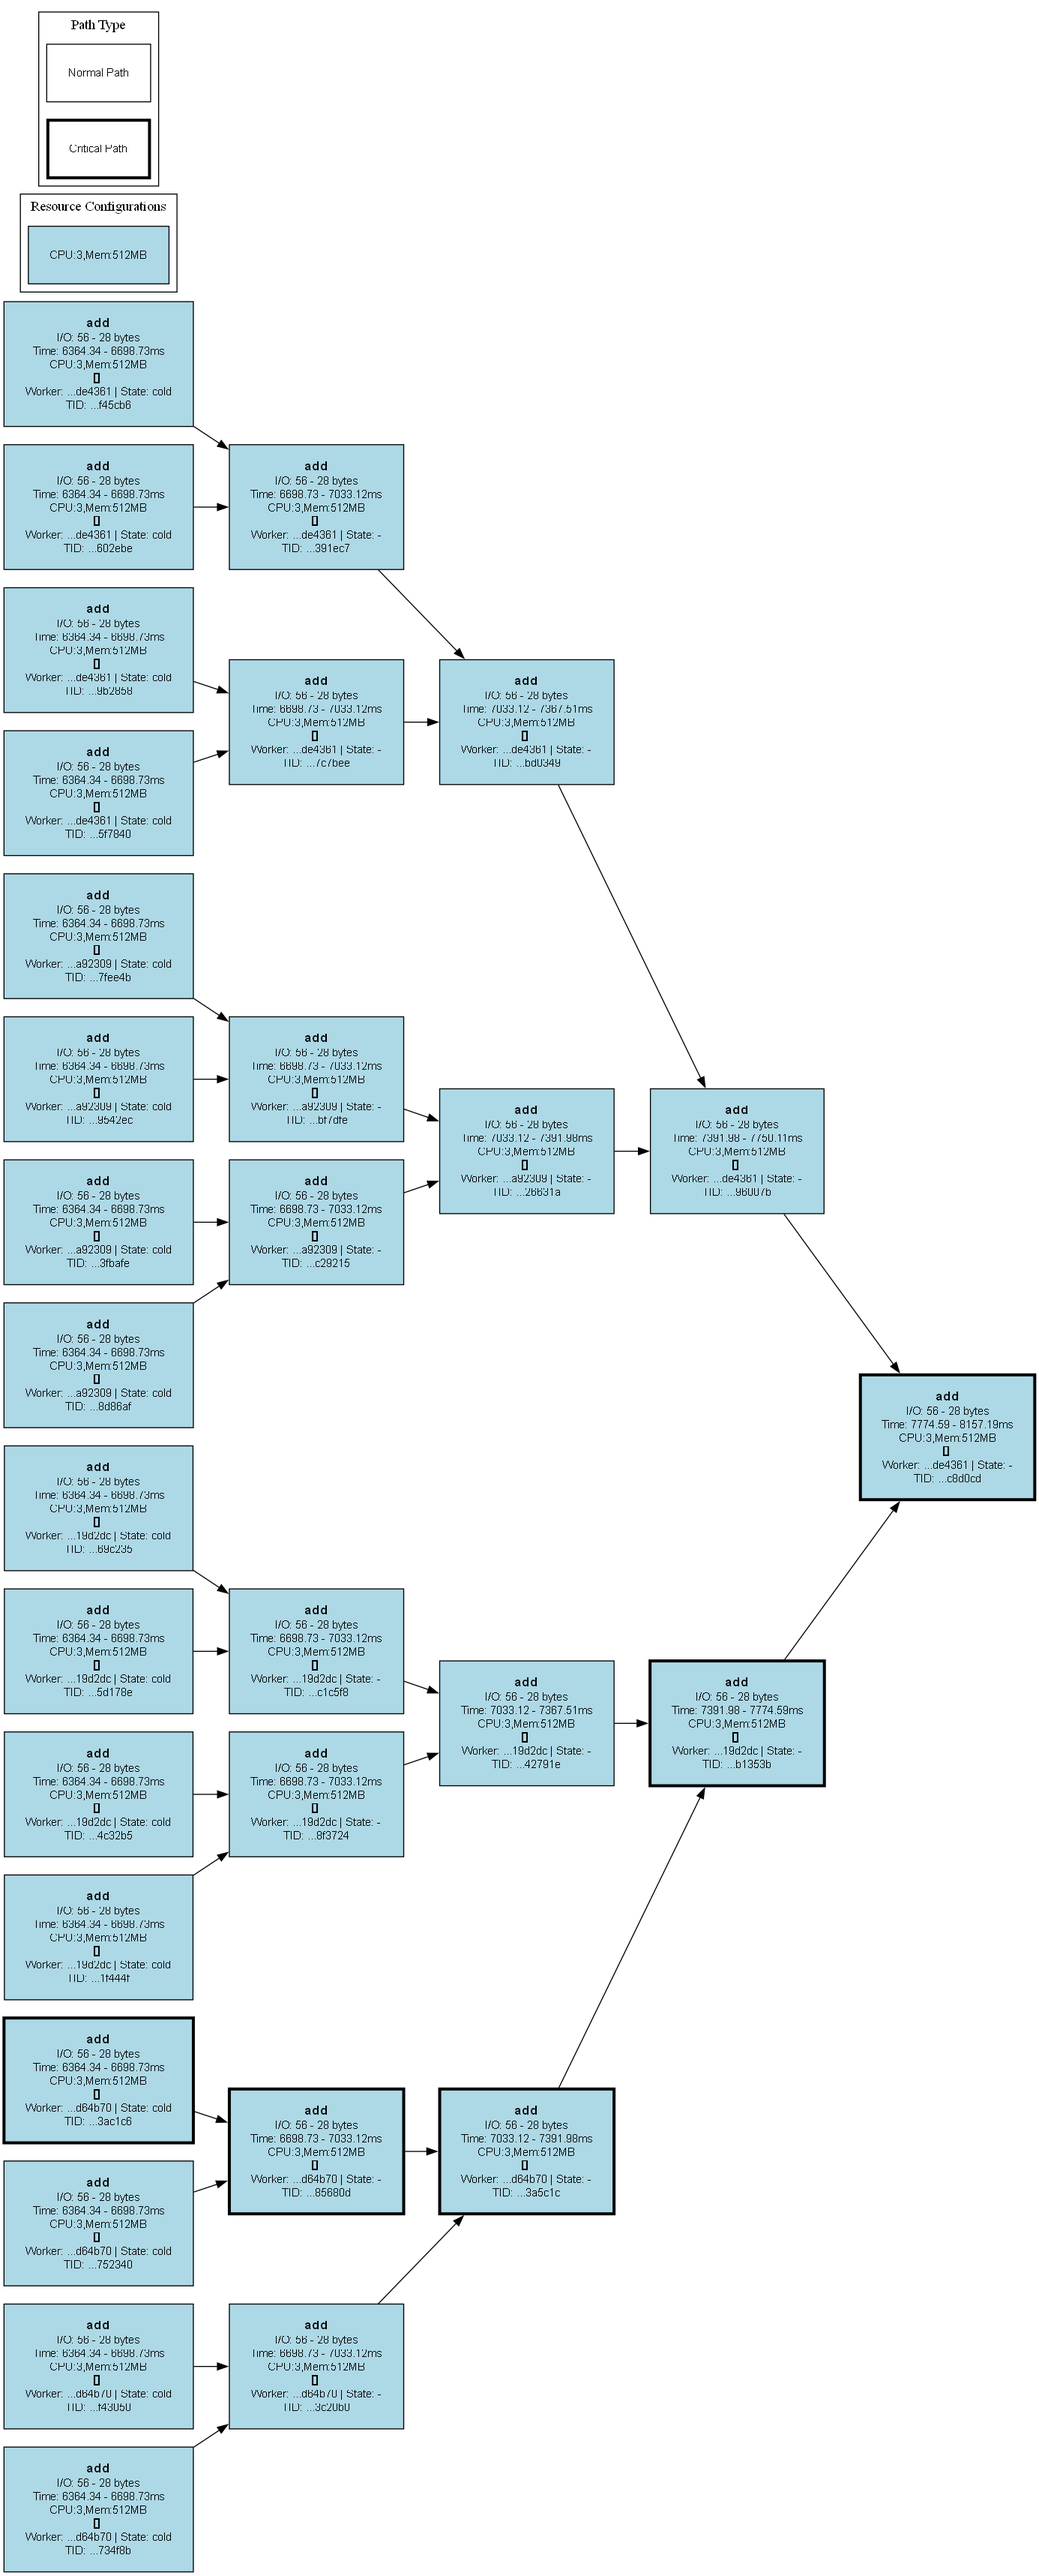
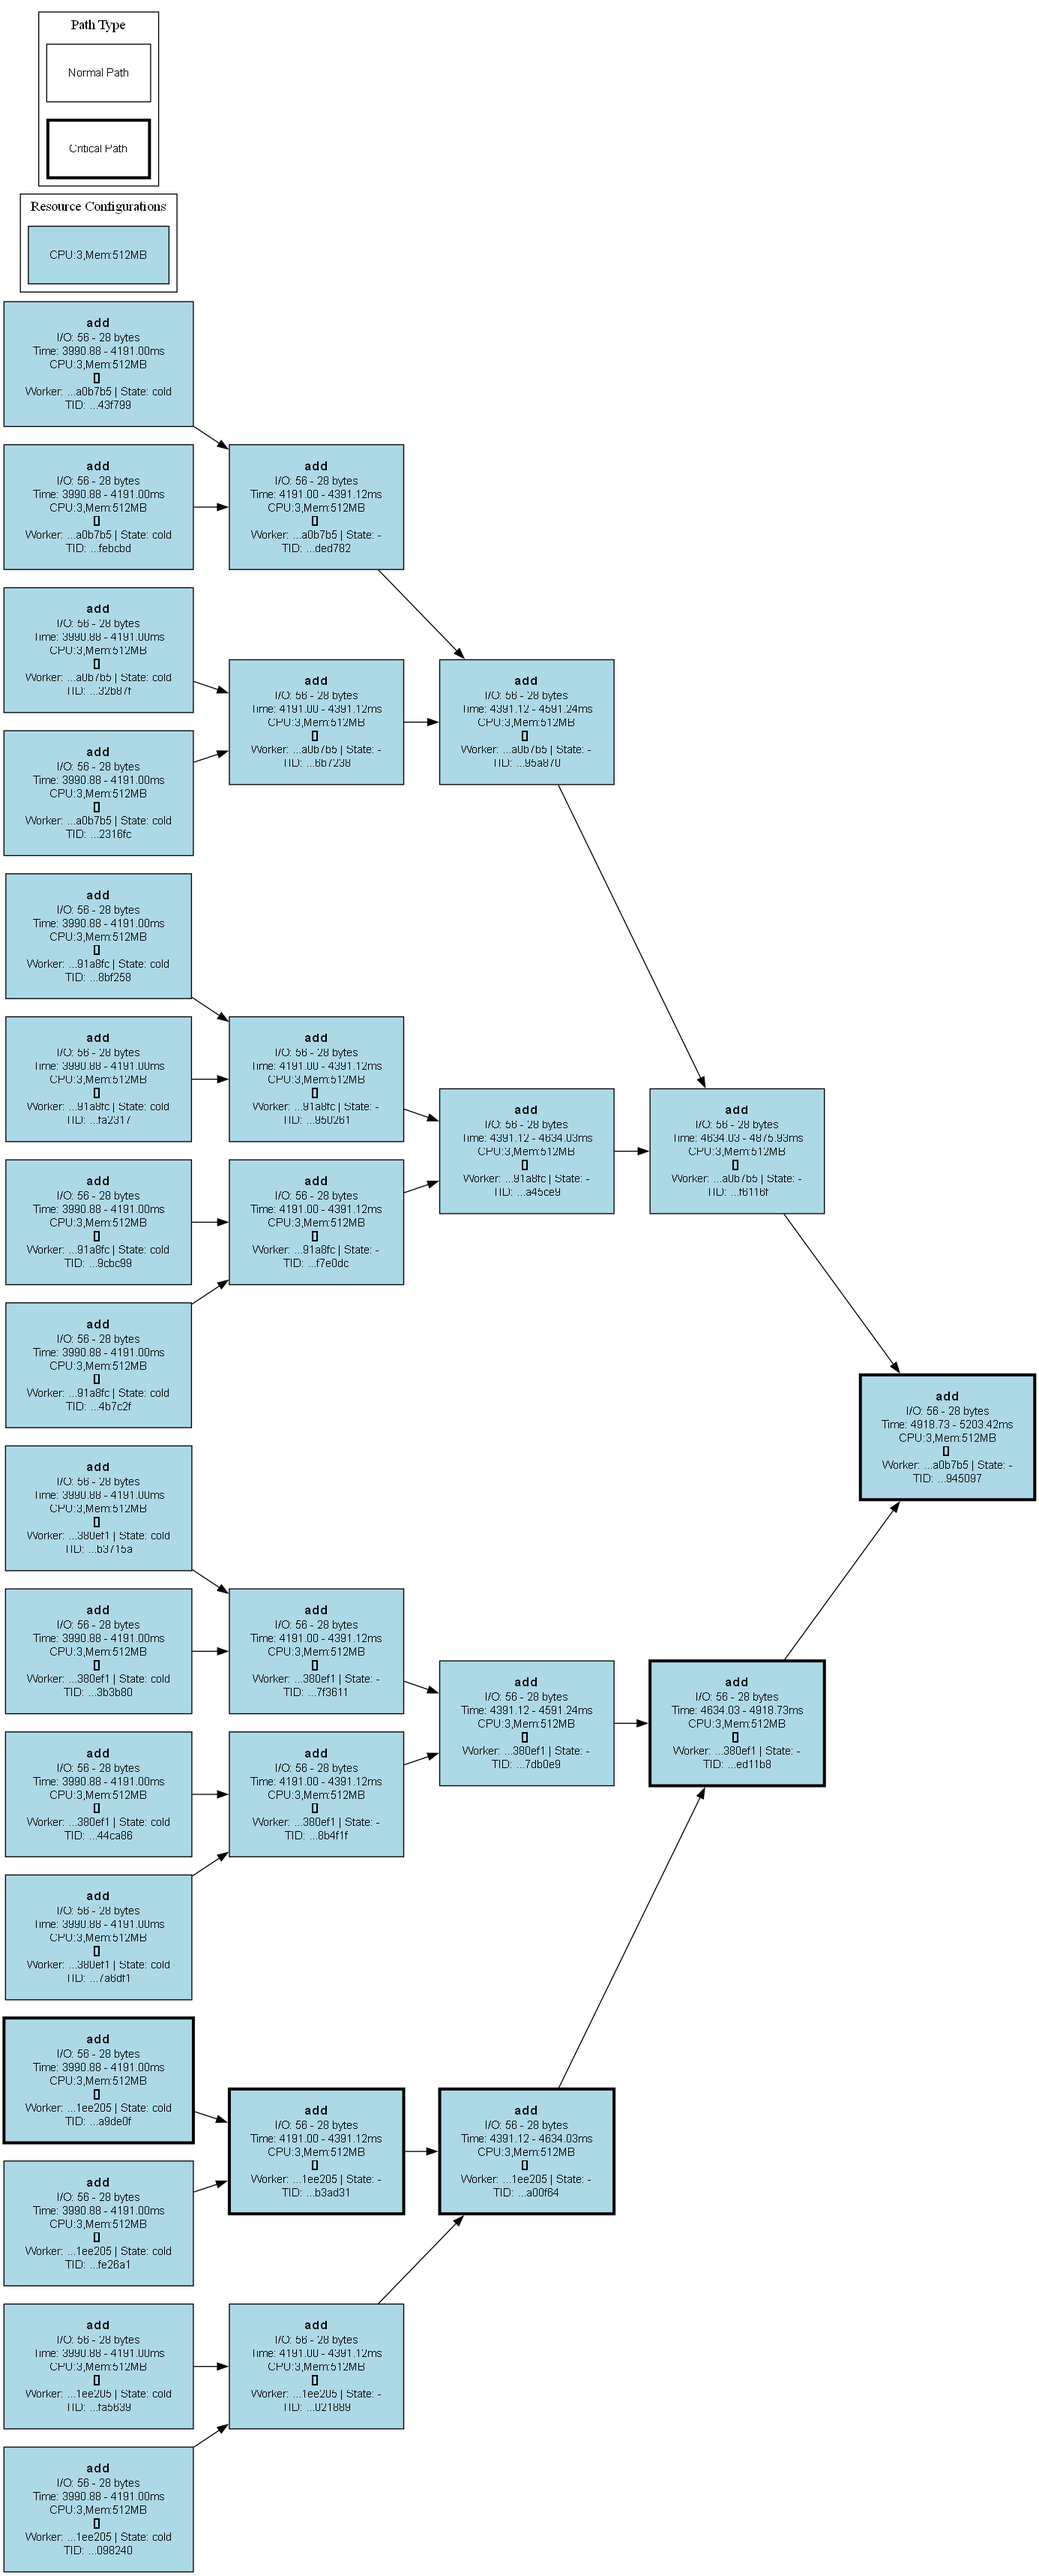
attempt at improving predictions by using adaptive scaling exponent for predicting output size, execution time and data trasnfer times

diff --git a/src/planning/predictions/predictions_provider.py b/src/planning/predictions/predictions_provider.py
@@ -144,7 +144,9 @@ class PredictionsProvider:
         if sla == "average": ratio = np.average(selected_ratios)
         else: ratio = np.percentile(selected_ratios, sla.value)
 
-        res = math.ceil(input_size * ratio)
+        adaptive_exponent = self._adaptive_scaling_exponent(input_size, [input_size for _, input_size in function_io_ratios], sla)
+        logger.info(f"Output size prediction | Adaptive Exponent: {adaptive_exponent}")
+        res = math.ceil(input_size ** adaptive_exponent * ratio)
         
         self._cached_prediction_output_sizes[prediction_key] = res
         return res
@@ -155,8 +157,7 @@ class PredictionsProvider:
         data_size_bytes: int,
         resource_config: TaskWorkerResourceConfiguration,
         sla: SLA,
-        allow_cached: bool = True,
-        scaling_exponent: float = 0.85  # sublinear, because 2x data size doesn't mean 2x time
+        allow_cached: bool = True
     ) -> float:
         """Predict data transfer time for upload/download given data size and resources.
         
@@ -174,22 +175,22 @@ class PredictionsProvider:
             raise ValueError("SLA must be 'average' or between 0 and 100")
         if data_size_bytes == 0: return 0
         
-        cached_data = self.cached_upload_speeds if type == 'upload' else self.cached_download_speeds
-        if len(cached_data) == 0: return 0
+        all_samples = self.cached_upload_speeds if type == 'upload' else self.cached_download_speeds
+        if len(all_samples) == 0: return 0
         
         # Include scaling exponent in cache key
-        prediction_key = f"{type}-{data_size_bytes}-{resource_config}-{sla}-{scaling_exponent}"
+        prediction_key = f"{type}-{data_size_bytes}-{resource_config}-{sla}"
         if allow_cached and prediction_key in self._cached_prediction_data_transfer_times: 
             return self._cached_prediction_data_transfer_times[prediction_key]
         
         # Filter samples by exact resource match
-        matching_samples = [
-            (speed, total_bytes) for speed, total_bytes, cpus, memory_mb in cached_data
+        _matching_samples = [
+            (speed, total_bytes) for speed, total_bytes, cpus, memory_mb in all_samples
             if cpus == resource_config.cpus and memory_mb == resource_config.memory_mb
         ]
 
-        if len(matching_samples) >= self.MIN_SAMPLES_OF_SAME_RESOURCE_CONFIGURATION:
-            matching_samples = self._select_related_samples(data_size_bytes, matching_samples, sla)
+        if len(_matching_samples) >= self.MIN_SAMPLES_OF_SAME_RESOURCE_CONFIGURATION:
+            matching_samples = self._select_related_samples(data_size_bytes, _matching_samples, sla)
             if sla == "average":
                 speed_bytes_per_ms = np.average(matching_samples)
             else:
@@ -198,15 +199,16 @@ class PredictionsProvider:
             if speed_bytes_per_ms <= 0:
                 raise ValueError(f"No data available for {type} or invalid speed data")
             
-            # Apply non-linear scaling with protection against complex numbers
-            base_time = (data_size_bytes ** scaling_exponent) / speed_bytes_per_ms
+            adaptive_exponent = self._adaptive_scaling_exponent(data_size_bytes, [data_size for _, data_size in _matching_samples], sla)
+            logger.info(f"Data trans | Matching samples | Adaptive Exponent: {adaptive_exponent}")
+            base_time = (data_size_bytes ** adaptive_exponent) / speed_bytes_per_ms
             res = base_time
         else:
-            baseline_normalized_samples = [
+            _baseline_normalized_samples = [
                 (speed * (BASELINE_MEMORY_MB / memory_mb) ** 0.2, total_bytes)
-                for speed, total_bytes, cpus, memory_mb in cached_data
+                for speed, total_bytes, cpus, memory_mb in all_samples
             ]
-            baseline_normalized_samples = self._select_related_samples(data_size_bytes, baseline_normalized_samples, sla)
+            baseline_normalized_samples = self._select_related_samples(data_size_bytes, _baseline_normalized_samples, sla)
             
             if sla == "average":
                 baseline_speed_bytes_per_ms = np.average(baseline_normalized_samples)
@@ -216,12 +218,13 @@ class PredictionsProvider:
             if baseline_speed_bytes_per_ms <= 0:
                 raise ValueError(f"No data available for {type} or invalid baseline speed data")
             
-            # Scale from baseline to target and apply non-linear scaling with protection
+            adaptive_exponent = self._adaptive_scaling_exponent(data_size_bytes, [data_size for _, data_size in _baseline_normalized_samples], sla)
+            logger.info(f"Data trans | Normalized samples | Adaptive Exponent: {adaptive_exponent}")
             scaled_speed_bytes_per_ms = baseline_speed_bytes_per_ms * (resource_config.memory_mb / BASELINE_MEMORY_MB) ** 0.2
-            res = (data_size_bytes ** scaling_exponent) / scaled_speed_bytes_per_ms
+            res = (data_size_bytes ** adaptive_exponent) / scaled_speed_bytes_per_ms
 
-        self._cached_prediction_data_transfer_times[prediction_key] = res
-        return res
+        self._cached_prediction_data_transfer_times[prediction_key] = float(res)
+        return float(res)
 
     def predict_worker_startup_time(self, resource_config: TaskWorkerResourceConfiguration, state: Literal['cold', 'warm'], sla: SLA, allow_cached: bool = True) -> float:
         """Predict worker startup time given resource configuration and state."""
@@ -270,8 +273,7 @@ class PredictionsProvider:
         input_size: int,
         resource_config: TaskWorkerResourceConfiguration,
         sla: SLA,
-        allow_cached: bool = True,
-        input_scaling_exponent: float = 0.9
+        allow_cached: bool = True
     ) -> float:
         """Predict execution time for a function given input size and resources.
         
@@ -294,33 +296,31 @@ class PredictionsProvider:
             return 0
         
         # Filter samples by exact resource match
-        matching_samples = [
-            (time_per_byte, cpus, memory_mb, total_input_size_bytes) for time_per_byte, cpus, memory_mb, total_input_size_bytes in all_samples
+        _matching_samples = [
+            (time_per_byte, total_input_size_bytes) for time_per_byte, cpus, memory_mb, total_input_size_bytes in all_samples
             if cpus == resource_config.cpus and memory_mb == resource_config.memory_mb
         ]
 
         # logger.info(f"Found {len(matching_samples)} exact resource matches for function {function_name} | nr samples: {len(all_samples)}")
 
-        if len(matching_samples) >= self.MIN_SAMPLES_OF_SAME_RESOURCE_CONFIGURATION:
+        if len(_matching_samples) >= self.MIN_SAMPLES_OF_SAME_RESOURCE_CONFIGURATION:
             # Get the full samples (with input sizes) for the matching resource config
-            full_matching_samples = [
-                (time_per_byte, total_input_size) for time_per_byte, cpus, memory_mb, total_input_size in matching_samples
-                if cpus == resource_config.cpus and memory_mb == resource_config.memory_mb
-            ]
             
             # Select samples based on input size similarity
-            selected_times = self._select_related_samples(input_size, full_matching_samples, sla)
+            matching_samples = self._select_related_samples(input_size, _matching_samples, sla)
             
             # Calculate prediction using the selected samples
             if sla == "average": 
-                ms_per_byte = np.average(selected_times)
+                ms_per_byte = np.average(matching_samples)
             else: 
-                ms_per_byte = np.percentile(selected_times, sla.value)
+                ms_per_byte = np.percentile(matching_samples, sla.value)
             
             if ms_per_byte <= 0: 
                 raise ValueError(f"No valid data available for function {function_name}")
                 
-            res = ms_per_byte * (input_size ** input_scaling_exponent)
+            adaptive_exponent = self._adaptive_scaling_exponent(input_size, [input_size for _,  input_size in _matching_samples], sla)
+            logger.info(f"Exec time | Matching samples | Adaptive Exponent: {adaptive_exponent}")
+            res = ms_per_byte * (input_size ** adaptive_exponent)
         else:
             # Insufficient exact matches - use memory scaling model with baseline normalization
             # Normalize samples to baseline memory configuration and select by input size
@@ -338,15 +338,39 @@ class PredictionsProvider:
                 baseline_ms_per_byte = np.percentile(baseline_normalized_samples, sla.value)
             if baseline_ms_per_byte <= 0:  
                 raise ValueError(f"No data available for function {function_name}")
-            res = baseline_ms_per_byte * (input_size ** input_scaling_exponent) * (BASELINE_MEMORY_MB / resource_config.memory_mb) ** 0.2
+            
+            adaptive_exponent = self._adaptive_scaling_exponent(input_size, [input_size for _,  input_size in samples_w_normalized_time_per_byte], sla)
+            logger.info(f"Exec time | Normalized Samples | Adaptive Exponent: {adaptive_exponent}")
+            logger.info
+            res = baseline_ms_per_byte * (input_size ** adaptive_exponent) * (BASELINE_MEMORY_MB / resource_config.memory_mb) ** 0.2
         
         self._cached_prediction_execution_times[prediction_key] = res # type: ignore
         return res # type: ignore
 
+    def _adaptive_scaling_exponent(self, value_for_which_to_predict, samples: list[int | float], sla: SLA, k_base=0.8, alpha=0.5):
+        """
+        Compute adaptive scaling exponent for input size prediction.
+
+        Args:
+            value_for_which_to_predict: value to predict for
+            samples: list of sample values used for prediction
+            k_base: nominal power-law exponent
+            alpha: smoothing factor (higher = faster transition to k_base)
+
+        Returns:
+            adaptive exponent (float)
+        """
+        # Use median sample size to reduce outlier influence
+        if sla == "average": S_sample = np.average(samples)
+        else: S_sample = np.percentile(samples, sla.value)
+        ratio = np.abs(np.log(value_for_which_to_predict / S_sample))
+        k_eff = 1 - (1 - k_base) * (1 - np.exp(-alpha * ratio)) # Smoothly interpolate between 1 and k_base
+        return k_eff
+
     def _select_related_samples(self, reference_value: int, all_samples: list[tuple[float, int]], sla: SLA, max_samples = 100, min_samples = 6) -> list[float]:
         """
-        reference_value: int
-        all_samples: [(value, comparable_to_reference)]
+        to_predict: int
+        all_samples: [(value_to_use_for_prediction, input_that_generated_the_value)]
         """
         if not all_samples: return []
         

diff --git a/_examples/original/tree_reduction.py b/_examples/original/tree_reduction.py
@@ -12,7 +12,7 @@ from common.config import WORKER_CONFIG
 
 @DAGTask
 def add(x: float, y: float) -> float:
-    time.sleep(.5) # simulate some heavier work
+    time.sleep(.2) # simulate some heavier work
     return x + y
 
 # Define the workflow
